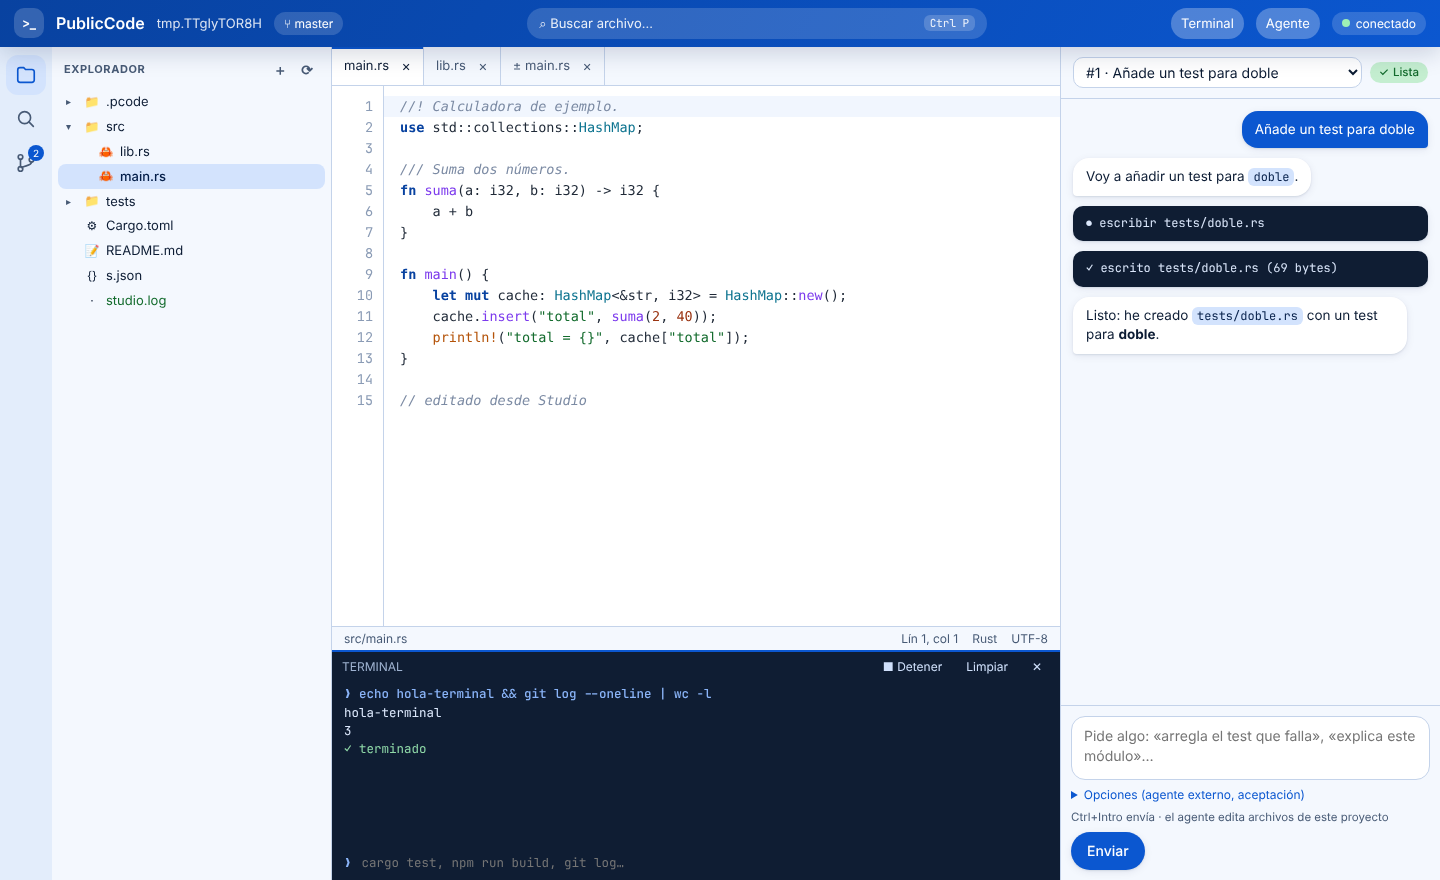
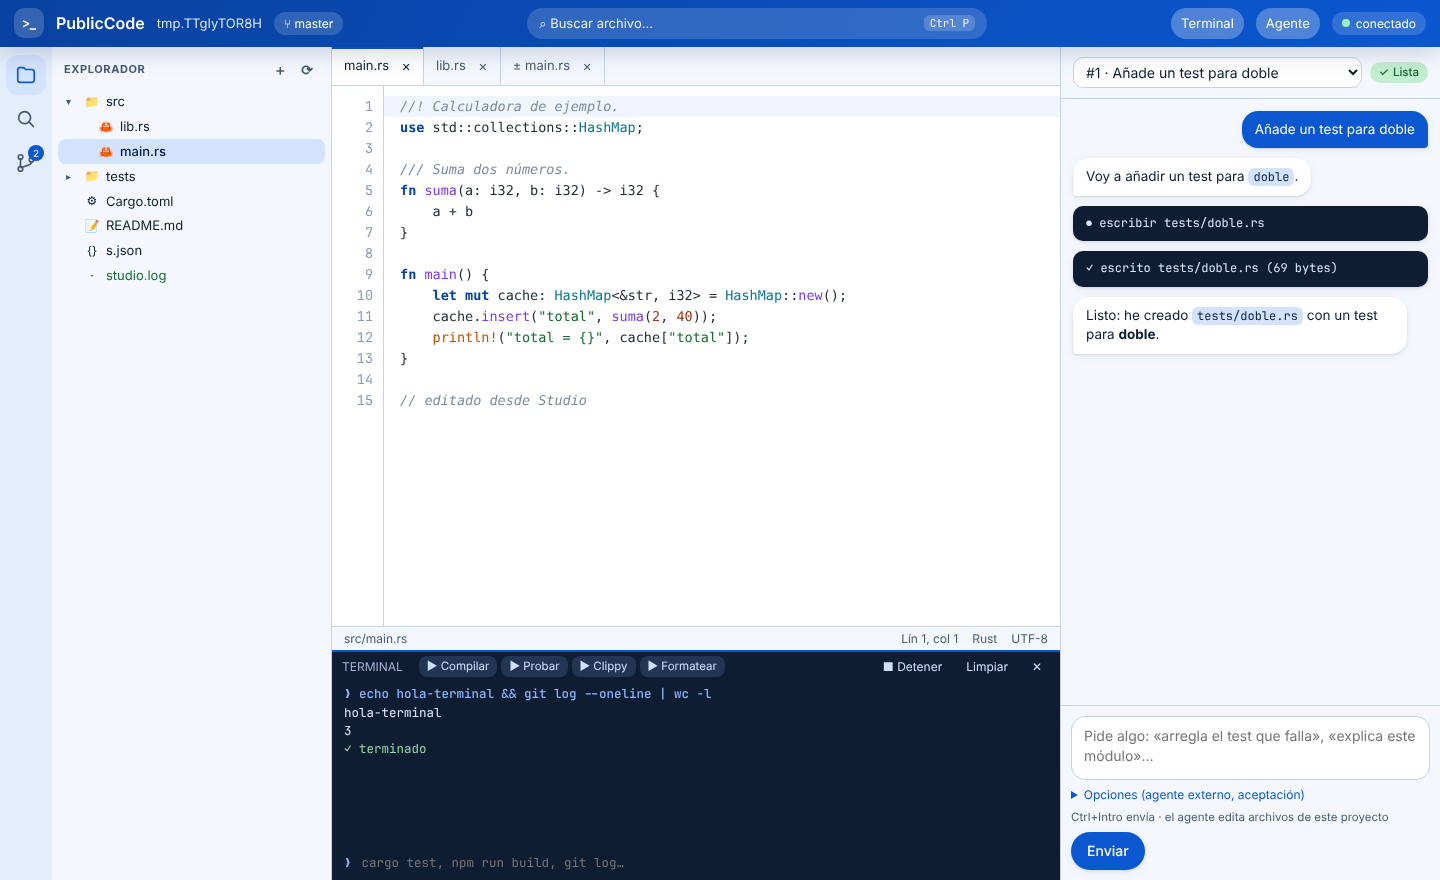
Studio: buscar y reemplazar, ir a línea, renombrar/borrar, tareas y selección al agente
- Ctrl+F buscar y reemplazar (uno o todos) en el archivo; Ctrl+G ir a una línea
- explorador con menú contextual: renombrar o mover (F2), copiar ruta, preguntar al agente,
  borrar (Supr; carpetas solo si están vacías) — fs.rename y fs.delete en el demonio
- workspace.tasks: botones de compilar/probar según Cargo, npm/yarn/pnpm, Python, Go,
  Gradle y Make en la terminal
- Ctrl+L o «Preguntar al agente»: la selección con su archivo y sus líneas va al agente
- las sesiones del demonio también adjuntan los @archivo mencionados
- prueba en Chromium ampliada a 24 comprobaciones

Claude-Session: https://claude.ai/code/session_017oEhMeyRACbkeU3tTA1FXK

Changed region(s): [[0.0312, 0.092, 0.25, 0.3682], [0.2812, 0.7364, 0.5, 0.767]]

diff --git a/crates/pcode-server/web/index.html b/crates/pcode-server/web/index.html
@@ -206,6 +206,25 @@
   details.opciones summary { font-size: 12px; color: var(--primario); cursor: pointer; }
   details.opciones input { width: 100%; margin-top: 4px; border: 1.5px solid var(--linea); border-radius: 10px; padding: 5px 8px; background: var(--superficie); }
 
+  /* Buscar y reemplazar en el archivo */
+  .buscador { position: absolute; top: 8px; right: 18px; z-index: 5; background: var(--superficie); border-radius: 14px; box-shadow: var(--sombra-2);
+              padding: 8px; display: grid; grid-template-columns: 220px auto; gap: 6px; align-items: center; font-size: 12px; }
+  .buscador input { border: 1.5px solid var(--linea); border-radius: 10px; padding: 5px 8px; background: var(--superficie-2); outline: none; font: 12.5px var(--mono); }
+  .buscador input:focus { border-color: var(--primario); }
+  .buscador .fila { gap: 4px; align-items: center; flex-wrap: nowrap; }
+  .buscador button { padding: 4px 8px; border-radius: 8px; }
+  .buscador button:hover { background: var(--contenedor); }
+  .buscador .cuenta { color: var(--texto-2); min-width: 54px; text-align: center; }
+  .menu { position: fixed; z-index: 70; background: var(--superficie); border-radius: 12px; box-shadow: var(--sombra-2); padding: 4px; min-width: 170px; }
+  .menu button { display: block; width: 100%; text-align: left; padding: 7px 12px; font-size: 13px; border-radius: 8px; }
+  .menu button:hover { background: var(--contenedor); }
+  .menu button.rojo { color: var(--error); }
+  .tareas { display: flex; gap: 4px; flex-wrap: wrap; }
+  .tareas button { background: rgba(138,180,248,.16); color: #cfe0fb; padding: 2px 10px; border-radius: 999px; font-size: 11.5px; }
+  .tareas button:hover { background: rgba(138,180,248,.3); }
+  .estado-ed button { color: var(--primario); font-size: 12px; padding: 1px 8px; border-radius: 8px; }
+  .estado-ed button:hover { background: var(--contenedor); }
+
   /* Diálogo de apertura rápida */
   .velo { position: fixed; inset: 0; background: rgba(4,20,46,.35); display: grid; justify-items: center; align-items: start; padding-top: 12vh; z-index: 50; }
   .dialogo { width: min(620px, 92vw); background: var(--superficie); border-radius: 20px; box-shadow: var(--sombra-2); overflow: hidden; }
@@ -295,6 +314,9 @@
             <kbd>Ctrl `</kbd><span>Terminal</span>
             <kbd>Ctrl I</kbd><span>Agente</span>
             <kbd>Ctrl W</kbd><span>Cerrar pestaña</span>
+            <kbd>Ctrl F</kbd><span>Buscar y reemplazar en el archivo</span>
+            <kbd>Ctrl G</kbd><span>Ir a una línea</span>
+            <kbd>Ctrl L</kbd><span>Preguntar al agente por la selección</span>
           </div>
         </div>
       </div>
@@ -306,15 +328,21 @@
           <textarea id="ta" spellcheck="false" autocapitalize="off" autocomplete="off" aria-label="Editor"></textarea>
         </div>
       </div>
+      <div id="buscador" class="buscador oculto" role="search">
+        <input id="f-buscar" placeholder="Buscar" aria-label="Buscar en el archivo">
+        <div class="fila"><span id="f-cuenta" class="cuenta"></span><button id="f-ant" title="Anterior (Mayús+Intro)">↑</button><button id="f-sig" title="Siguiente (Intro)">↓</button><button id="f-cerrar" title="Cerrar (Esc)">✕</button></div>
+        <input id="f-reemplazar" placeholder="Reemplazar" aria-label="Reemplazar por">
+        <div class="fila"><button id="f-uno">Reemplazar</button><button id="f-todo">Todo</button></div>
+      </div>
       <div id="vista-diff" class="diff oculto" aria-label="Diferencias"></div>
       <div id="binario" class="binario oculto">Archivo binario: no se puede editar aquí.</div>
     </div>
     <div class="estado-ed">
       <span id="e-archivo">Sin archivo</span>
-      <div class="derecha"><span id="e-pos"></span><span id="e-lang"></span><span>UTF-8</span></div>
+      <div class="derecha"><button id="b-preguntar" class="oculto" title="Preguntar al agente sobre la selección (Ctrl+L)">✦ Preguntar al agente</button><span id="e-pos"></span><span id="e-lang"></span><span>UTF-8</span></div>
     </div>
     <section id="terminal" class="terminal" aria-label="Terminal">
-      <header>TERMINAL <span id="t-estado"></span><span style="flex:1"></span>
+      <header>TERMINAL <span id="t-estado"></span><span id="tareas" class="tareas"></span><span style="flex:1"></span>
         <button id="t-parar" title="Detener (Ctrl+C)">■ Detener</button><button id="t-limpiar">Limpiar</button><button id="t-cerrar">✕</button></header>
       <pre id="salida" class="salida" aria-live="polite"></pre>
       <div class="linea-orden"><span>❯</span><input id="orden" placeholder="cargo test, npm run build, git log…" aria-label="Orden"></div>
@@ -439,6 +467,7 @@ function muestra() {
   $("binario").classList.toggle("oculto", !t || !t.binary);
   $("vista-diff").classList.toggle("oculto", !t || t.kind !== "diff");
   $("e-archivo").textContent = t ? t.path + (t.dirty ? " ●" : "") : "Sin archivo";
+  if (!t || t.kind !== "file") $("buscador").classList.add("oculto");
   $("e-lang").textContent = t && t.kind === "file" ? NOMBRE_LANG[t.lang] || "" : "";
   if (!t) { $("e-pos").textContent = ""; marcaArbol(); return; }
   if (t.kind === "diff") pintaDiff(t);
@@ -530,6 +559,68 @@ ta.addEventListener("keydown", (e) => {
   }
 });
 
+/* ───────── Buscar y reemplazar en el archivo ───────── */
+function coincidencias() {
+  const q = $("f-buscar").value; if (!q) return [];
+  const t = ta.value.toLowerCase(), qq = q.toLowerCase(), out = [];
+  for (let i = t.indexOf(qq); i >= 0 && out.length < 10000; i = t.indexOf(qq, i + Math.max(1, qq.length))) out.push(i);
+  return out;
+}
+function selecciona(pos, len) {
+  ta.focus(); ta.setSelectionRange(pos, pos + len);
+  const linea = ta.value.slice(0, pos).split("\n").length;
+  if (linea * 21 < ta.scrollTop + 40 || linea * 21 > ta.scrollTop + ta.clientHeight - 60) ta.scrollTop = Math.max(0, (linea - 8) * 21);
+  posicion(); $("f-buscar").focus();
+}
+function salta(dir) {
+  const m = coincidencias(), q = $("f-buscar").value;
+  if (!m.length) { $("f-cuenta").textContent = q ? "0 de 0" : ""; return; }
+  const desde = dir > 0 ? ta.selectionEnd : ta.selectionStart - 1;
+  let i = dir > 0 ? m.findIndex((p) => p >= desde) : m.map((p, k) => [p, k]).filter(([p]) => p <= desde).pop()?.[1] ?? -1;
+  if (i < 0) i = dir > 0 ? 0 : m.length - 1;
+  $("f-cuenta").textContent = `${i + 1} de ${m.length}`;
+  selecciona(m[i], q.length);
+}
+function buscador(abrir) {
+  const t = tabActiva(); if (!t || t.kind !== "file") return;
+  $("buscador").classList.toggle("oculto", !abrir);
+  if (abrir) { const sel = ta.value.slice(ta.selectionStart, ta.selectionEnd); if (sel && !sel.includes("\n")) $("f-buscar").value = sel; $("f-buscar").focus(); $("f-buscar").select(); salta(1); }
+  else ta.focus();
+}
+$("f-buscar").addEventListener("input", () => { ta.setSelectionRange(ta.selectionStart, ta.selectionStart); salta(1); });
+$("f-buscar").addEventListener("keydown", (e) => { if (e.key === "Enter") { e.preventDefault(); salta(e.shiftKey ? -1 : 1); } else if (e.key === "Escape") buscador(false); });
+$("f-reemplazar").addEventListener("keydown", (e) => { if (e.key === "Escape") buscador(false); else if (e.key === "Enter") { e.preventDefault(); $("f-uno").click(); } });
+$("f-sig").onclick = () => salta(1); $("f-ant").onclick = () => salta(-1); $("f-cerrar").onclick = () => buscador(false);
+$("f-uno").onclick = () => {
+  const q = $("f-buscar").value; if (!q) return;
+  if (ta.value.slice(ta.selectionStart, ta.selectionEnd).toLowerCase() === q.toLowerCase()) {
+    ta.setRangeText($("f-reemplazar").value, ta.selectionStart, ta.selectionEnd, "end"); ta.dispatchEvent(new Event("input"));
+  }
+  salta(1);
+};
+$("f-todo").onclick = () => {
+  const q = $("f-buscar").value; if (!q) return;
+  const n = coincidencias().length; if (!n) return;
+  const re = new RegExp(q.replace(/[.*+?^${}()|[\]\\]/g, "\\$&"), "gi");
+  ta.value = ta.value.replace(re, () => $("f-reemplazar").value); ta.dispatchEvent(new Event("input"));
+  aviso(`${n} reemplazos`); salta(1);
+};
+function irA() {
+  const t = tabActiva(); if (!t || t.kind !== "file") return;
+  const n = parseInt(prompt("Ir a la línea:", ""), 10); if (n > 0) irALinea(n);
+}
+function preguntaSeleccion() {
+  const t = tabActiva(); if (!t || t.kind !== "file") return;
+  const a = ta.selectionStart, b = ta.selectionEnd, sel = ta.value.slice(a, b);
+  const l1 = ta.value.slice(0, a).split("\n").length, l2 = l1 + sel.split("\n").length - 1;
+  const contexto = sel ? `En @${t.path} (líneas ${l1}–${l2}):\n\`\`\`\n${sel}\n\`\`\`\n` : `Sobre @${t.path}:\n`;
+  agente(true); if (innerWidth <= 900) vista("agente");
+  const m = $("mensaje"); m.value = contexto + m.value; m.focus(); m.setSelectionRange(m.value.length, m.value.length);
+}
+$("b-preguntar").onclick = preguntaSeleccion;
+ta.addEventListener("select", () => $("b-preguntar").classList.toggle("oculto", ta.selectionStart === ta.selectionEnd));
+ta.addEventListener("keyup", () => $("b-preguntar").classList.toggle("oculto", ta.selectionStart === ta.selectionEnd));
+
 /* ───────── Diff ───────── */
 function pintaDiff(t) {
   const box = $("vista-diff"); box.replaceChildren();
@@ -559,10 +650,42 @@ async function cargaDir(path, ul, nivel) {
       if (S.abiertas.has(it.path)) cargaDir(it.path, sub, nivel + 1);
       fila.onclick = () => { if (S.abiertas.has(it.path)) { S.abiertas.delete(it.path); sub.replaceChildren(); flecha.textContent = "▸"; } else { S.abiertas.add(it.path); flecha.textContent = "▾"; cargaDir(it.path, sub, nivel + 1); } };
     } else fila.onclick = () => abre(it.path);
-    fila.onkeydown = (e) => { if (e.key === "Enter" || e.key === " ") { e.preventDefault(); fila.click(); } };
+    fila.onkeydown = (e) => { if (e.key === "Enter" || e.key === " ") { e.preventDefault(); fila.click(); } else if (e.key === "F2") renombra(it.path); else if (e.key === "Delete") borra(it.path, it.dir); };
+    fila.oncontextmenu = (e) => { e.preventDefault(); menu(e.clientX, e.clientY, [
+      ["Renombrar o mover (F2)", () => renombra(it.path)],
+      ["Copiar ruta", () => navigator.clipboard?.writeText(it.path).then(() => aviso("Ruta copiada"))],
+      ...(it.dir ? [] : [["Preguntar al agente", () => { agente(true); $("mensaje").value = `Sobre @${it.path}: ` + $("mensaje").value; $("mensaje").focus(); }]]),
+      [it.dir ? "Borrar carpeta vacía (Supr)" : "Borrar (Supr)", () => borra(it.path, it.dir), "rojo"],
+    ]); };
     ul.appendChild(li);
   }
   marcaArbol();
+}
+function menu(x, y, opciones) {
+  document.querySelectorAll(".menu").forEach((m) => m.remove());
+  const m = el("div", "menu"); m.setAttribute("role", "menu");
+  for (const [txt, fn, cls] of opciones) { const b = el("button", cls || "", txt); b.setAttribute("role", "menuitem"); b.onclick = () => { m.remove(); fn(); }; m.appendChild(b); }
+  document.body.appendChild(m);
+  m.style.left = Math.min(x, innerWidth - m.offsetWidth - 8) + "px"; m.style.top = Math.min(y, innerHeight - m.offsetHeight - 8) + "px";
+  m.querySelector("button")?.focus();
+  setTimeout(() => document.addEventListener("click", () => m.remove(), { once: true }), 0);
+  m.addEventListener("keydown", (e) => { if (e.key === "Escape") m.remove(); });
+}
+async function renombra(path) {
+  const to = prompt("Nueva ruta:", path); if (!to || to === path) return;
+  try {
+    await rpc("fs.rename", { from: path, to });
+    for (const t of S.tabs) if (t.kind === "file" && (t.path === path || t.path.startsWith(path + "/"))) { t.path = to + t.path.slice(path.length); t.id = "f:" + t.path; if (S.activa && S.activa.startsWith("f:" + path)) S.activa = t.id; }
+    S.todos = null; pintaPestanas(); muestra(); aviso("Renombrado");
+  } catch (e) { aviso(e.message); }
+}
+async function borra(path, esDir) {
+  if (!confirm(`¿Borrar ${path}${esDir ? " (solo si está vacía)" : ""}? No se puede deshacer desde aquí.`)) return;
+  try {
+    await rpc("fs.delete", { path });
+    const t = S.tabs.find((x) => x.kind === "file" && x.path === path); if (t) { t.dirty = false; cierra(t.id); }
+    S.todos = null; aviso("Borrado " + path);
+  } catch (e) { aviso(e.message); }
 }
 function marcaArbol() { const t = tabActiva(); document.querySelectorAll(".nodo").forEach((n) => n.classList.toggle("activo", !!t && t.kind === "file" && n.dataset.path === t.path)); }
 const refrescaArbol = () => cargaDir("", $("arbol"), 0);
@@ -792,6 +915,9 @@ document.addEventListener("keydown", (e) => {
   else if (k === "`" || e.code === "Backquote") { e.preventDefault(); terminal(); }
   else if (k === "i") { e.preventDefault(); agente(); }
   else if (k === "w" && S.activa) { e.preventDefault(); cierra(S.activa); }
+  else if ((k === "f" || k === "h") && !e.shiftKey && tabActiva()?.kind === "file") { e.preventDefault(); buscador(true); }
+  else if (k === "g" && !e.shiftKey) { e.preventDefault(); irA(); }
+  else if (k === "l") { e.preventDefault(); preguntaSeleccion(); }
 });
 window.addEventListener("beforeunload", (e) => { if (S.tabs.some((t) => t.dirty)) { e.preventDefault(); e.returnValue = ""; } });
 
@@ -836,9 +962,15 @@ function conecta() {
     }
   };
 }
+async function cargaTareas() {
+  try {
+    const ts = await rpc("workspace.tasks"); const box = $("tareas"); box.replaceChildren();
+    for (const t of ts) { const b = el("button", "", "▶ " + t.label); b.title = t.command; b.onclick = () => { terminal(true); ejecuta(t.command); }; box.appendChild(b); }
+  } catch { /* sin tareas */ }
+}
 async function inicio() {
   try { const i = await rpc("server.info"); const r = String(i.repo || ""); $("proyecto").textContent = r.split(/[\\/]/).filter(Boolean).pop() || r; document.title = ($("proyecto").textContent || "") + " · PublicCode"; } catch { /* sin info */ }
-  refrescaArbol(); refrescaGit();
+  refrescaArbol(); refrescaGit(); cargaTareas();
   try { S.sesiones = await rpc("session.list"); } catch { S.sesiones = []; }
   try { S.aprob = await rpc("approvals.list"); } catch { S.aprob = []; }
   pintaSesiones(); pintaConversacion(); pintaPestanas(); muestra(); conecta();

diff --git a/crates/pcode-server/src/workspace.rs b/crates/pcode-server/src/workspace.rs
@@ -149,6 +149,105 @@ pub fn write(root: &Path, rel: &str, content: &str) -> WsResult<()> {
     std::fs::write(&p, content).map_err(|e| format!("no se puede escribir {rel}: {e}"))
 }
 
+/// Renombra o mueve dentro del proyecto (sin sobrescribir).
+pub fn rename(root: &Path, from: &str, to: &str) -> WsResult<()> {
+    let (a, b) = (safe_path(root, from)?, safe_path(root, to)?);
+    if !a.exists() {
+        return Err(format!("{from} no existe"));
+    }
+    if b.exists() {
+        return Err(format!("{to} ya existe"));
+    }
+    if let Some(parent) = b.parent() {
+        std::fs::create_dir_all(parent).map_err(|e| e.to_string())?;
+    }
+    std::fs::rename(&a, &b).map_err(|e| format!("no se puede renombrar: {e}"))
+}
+
+/// Borra un archivo o una carpeta vacía (nunca carpetas con contenido ni la raíz).
+pub fn delete(root: &Path, rel: &str) -> WsResult<()> {
+    let p = safe_path(root, rel)?;
+    if p == root.canonicalize().map_err(|e| e.to_string())? {
+        return Err("no se puede borrar la raíz del proyecto".into());
+    }
+    let md = std::fs::symlink_metadata(&p).map_err(|e| format!("{rel}: {e}"))?;
+    if md.is_dir() {
+        std::fs::remove_dir(&p)
+            .map_err(|_| format!("{rel} no está vacía: bórrala desde la terminal"))
+    } else {
+        std::fs::remove_file(&p).map_err(|e| format!("no se puede borrar {rel}: {e}"))
+    }
+}
+
+/// Orden sugerida para el proyecto.
+#[derive(Debug, Clone, PartialEq, serde::Serialize)]
+pub struct Task {
+    /// Texto del botón.
+    pub label: String,
+    /// Orden de shell.
+    pub command: String,
+}
+
+/// Órdenes habituales según los archivos de la raíz (Cargo, npm, Python, Go, Make, Gradle).
+pub fn tasks(root: &Path) -> Vec<Task> {
+    let has = |f: &str| root.join(f).exists();
+    let t = |l: &str, c: &str| Task {
+        label: l.into(),
+        command: c.into(),
+    };
+    let mut v = vec![];
+    if has("Cargo.toml") {
+        v.extend([
+            t("Compilar", "cargo build"),
+            t("Probar", "cargo test"),
+            t("Clippy", "cargo clippy --all-targets"),
+            t("Formatear", "cargo fmt"),
+        ]);
+    }
+    if has("package.json") {
+        let pm = if has("pnpm-lock.yaml") {
+            "pnpm"
+        } else if has("yarn.lock") {
+            "yarn"
+        } else {
+            "npm"
+        };
+        v.extend([
+            t("Instalar", &format!("{pm} install")),
+            t("Probar", &format!("{pm} test")),
+            t("Compilar", &format!("{pm} run build")),
+        ]);
+    }
+    if has("pyproject.toml") || has("requirements.txt") || has("setup.py") {
+        v.push(t("Probar", "python -m pytest"));
+    }
+    if has("go.mod") {
+        v.extend([
+            t("Compilar", "go build ./..."),
+            t("Probar", "go test ./..."),
+        ]);
+    }
+    if has("gradlew") || has("build.gradle") || has("build.gradle.kts") {
+        let g = if has("gradlew") {
+            if cfg!(windows) {
+                "gradlew.bat"
+            } else {
+                "./gradlew"
+            }
+        } else {
+            "gradle"
+        };
+        v.extend([
+            t("Compilar", &format!("{g} build")),
+            t("Probar", &format!("{g} test")),
+        ]);
+    }
+    if has("Makefile") {
+        v.push(t("make", "make"));
+    }
+    v
+}
+
 fn git(root: &Path, args: &[&str]) -> WsResult<String> {
     let out = Command::new("git")
         .arg("-C")
@@ -436,6 +535,30 @@ mod tests {
             2
         );
         assert!(search(d.path(), "(", true, true).is_err());
+    }
+
+    #[test]
+    fn renombrar_borrar_y_tareas() {
+        let d = repo();
+        rename(d.path(), "src/main.rs", "src/app.rs").unwrap();
+        assert!(d.path().join("src/app.rs").exists());
+        std::fs::write(d.path().join("x.txt"), "x").unwrap();
+        assert!(
+            rename(d.path(), "x.txt", "src/app.rs")
+                .unwrap_err()
+                .contains("ya existe")
+        );
+        assert!(delete(d.path(), "src").is_err(), "carpeta con contenido");
+        delete(d.path(), "x.txt").unwrap();
+        assert!(!d.path().join("x.txt").exists());
+        assert!(delete(d.path(), "").is_err(), "la raíz no se borra");
+        assert!(tasks(d.path()).is_empty());
+        std::fs::write(d.path().join("Cargo.toml"), "").unwrap();
+        std::fs::write(d.path().join("package.json"), "{}").unwrap();
+        std::fs::write(d.path().join("yarn.lock"), "").unwrap();
+        let t = tasks(d.path());
+        assert!(t.iter().any(|x| x.command == "cargo test"));
+        assert!(t.iter().any(|x| x.command == "yarn test"));
     }
 
     #[test]

diff --git a/crates/pcode-server/src/server.rs b/crates/pcode-server/src/server.rs
@@ -637,6 +637,25 @@ async fn rpc(
             }
             ws_reply(id, r.map(|_| true))
         }
+        methods::FS_RENAME => {
+            let (root, from, to) = (st.repo.clone(), str_param(&p, "from"), str_param(&p, "to"));
+            let r = blocking(move || crate::workspace::rename(&root, &from, &to)).await;
+            st.emit(Event::FilesChanged {});
+            ws_reply(id, r.map(|_| true))
+        }
+        methods::FS_DELETE => {
+            let (root, rel) = (st.repo.clone(), str_param(&p, "path"));
+            let r = blocking(move || crate::workspace::delete(&root, &rel)).await;
+            st.emit(Event::FilesChanged {});
+            ws_reply(id, r.map(|_| true))
+        }
+        methods::WORKSPACE_TASKS => {
+            let root = st.repo.clone();
+            ws_reply(
+                id,
+                blocking(move || Ok(crate::workspace::tasks(&root))).await,
+            )
+        }
         methods::FS_FILES => {
             let root = st.repo.clone();
             ws_reply(id, blocking(move || crate::workspace::files(&root)).await)

diff --git a/crates/pcode-protocol/src/lib.rs b/crates/pcode-protocol/src/lib.rs
@@ -293,6 +293,12 @@ pub mod methods {
     pub const FS_READ: &str = "fs.read";
     /// Escribe un archivo: `{path, content}` → `true`.
     pub const FS_WRITE: &str = "fs.write";
+    /// Renombra o mueve: `{from, to}`.
+    pub const FS_RENAME: &str = "fs.rename";
+    /// Borra un archivo o una carpeta vacía: `{path}`.
+    pub const FS_DELETE: &str = "fs.delete";
+    /// Órdenes útiles según el tipo de proyecto: `{}` → `{label, command}[]`.
+    pub const WORKSPACE_TASKS: &str = "workspace.tasks";
     /// Todos los archivos del proyecto (respeta `.gitignore` en repos git): `{}` → `string[]`.
     pub const FS_FILES: &str = "fs.files";
     /// Busca texto: `{query, regex?, caseSensitive?}` → `SearchHit[]`.

diff --git a/crates/pcode-cli/src/chat.rs b/crates/pcode-cli/src/chat.rs
@@ -510,8 +510,10 @@ async fn chat_jsonl(a: ChatArgs) -> anyhow::Result<i32> {
         let r = agent.run_turn(history.clone(), &first).await;
         history = finish_json_turn(&first, r, &mut persist);
     }
+    let root = std::env::current_dir()?;
     while let Some(msg) = rx.recv().await {
-        let r = agent.run_turn(history.clone(), &msg).await;
+        let full = pcode_tui::run::expand_message(&root, &msg, &[]);
+        let r = agent.run_turn(history.clone(), &full).await;
         history = finish_json_turn(&msg, r, &mut persist);
     }
     if let Some(sid) = persist.session {
